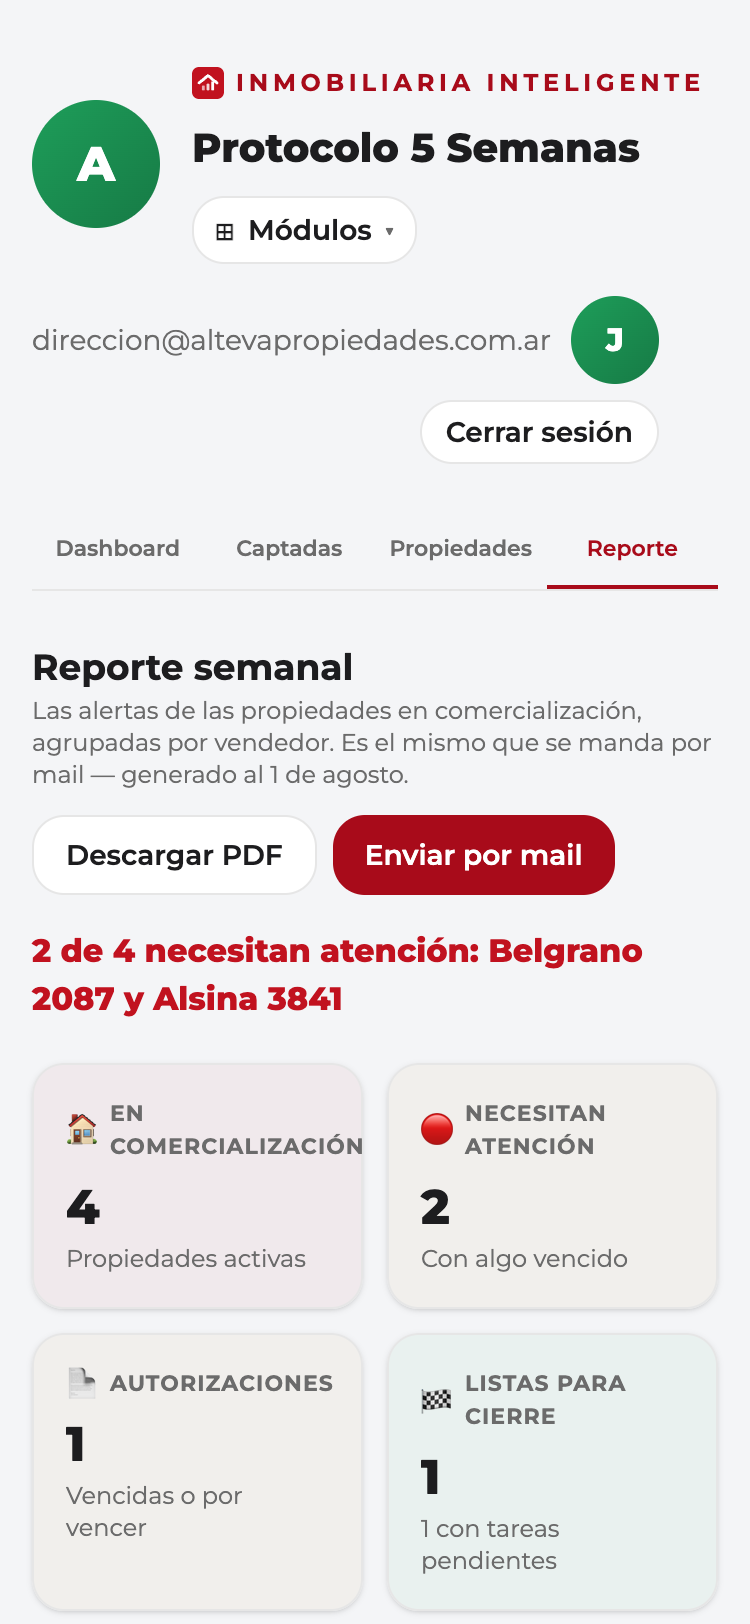
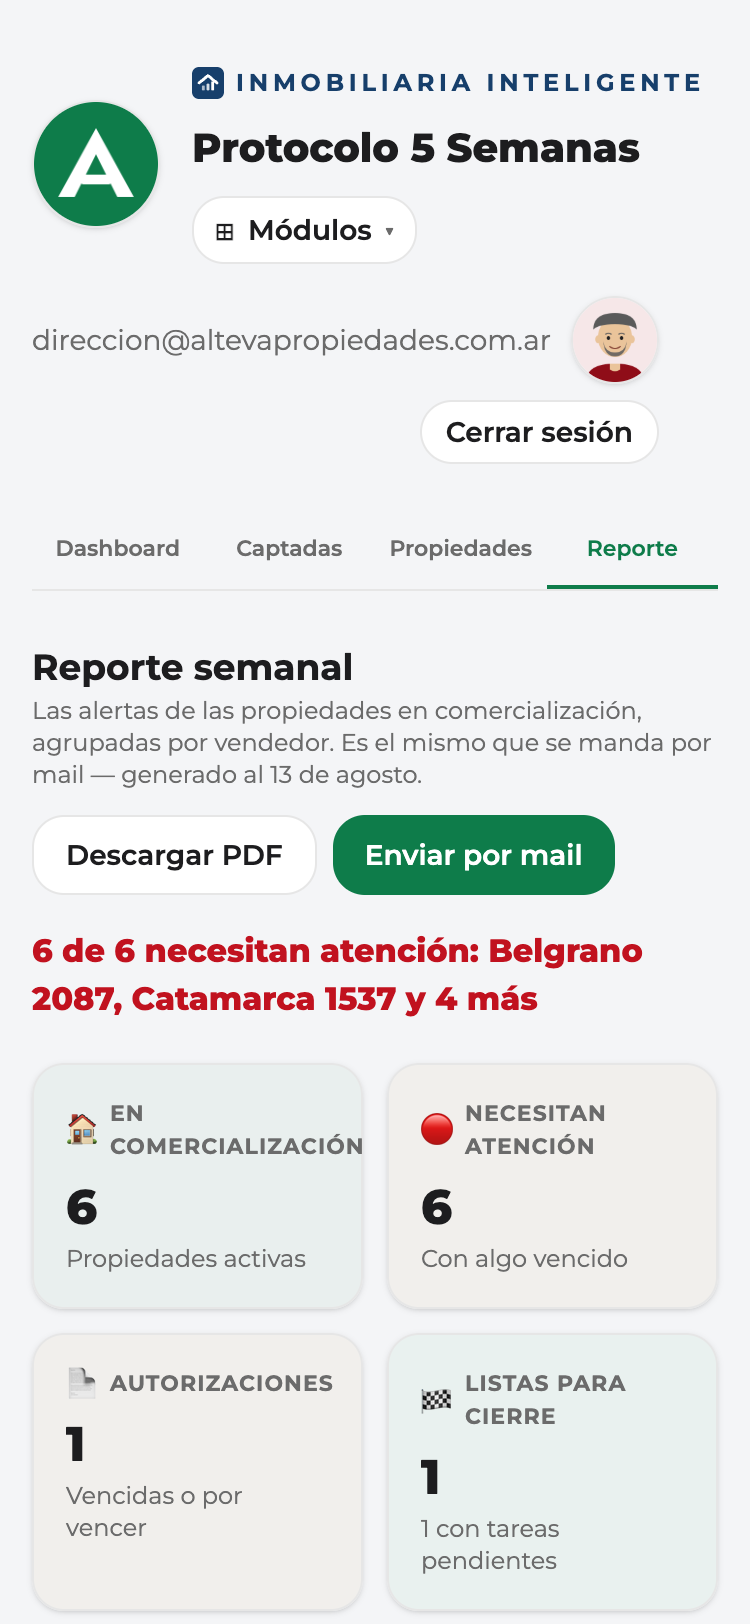
chore(comercial): capturas con la marca azul, y el acuerdo de confidencialidad
Las diez capturas del producto estaban sacadas el 1 de agosto, cuando la
plataforma todavía tomaba prestado el rojo de Vacker. Rehechas con el
script, ya con el azul propio.

El acento de los PDF que firmamos nosotros —el resumen técnico, los
costos, la guía de Meta y este acuerdo— pasa del rojo de Vacker al azul de
la plataforma, por la misma razón: son documentos que van a manos de un
prospecto y llevar el color de un cliente es presentarse con la marca de
otro.

El acuerdo de confidencialidad es recíproco y está redactado para el caso
concreto: nosotros vemos volúmenes, comisiones y datos de propietarios;
ellos ven cómo funciona el sistema y la lista de precios. Incluye la
cláusula de que los datos reales de un cliente no entran en material
comercial —que es lo que ya venimos haciendo con la base de demostración—
y la de Ley 25.326 por los datos personales que hay del otro lado.

Dice en la primera línea, y no en una nota al pie, que lo redactamos
nosotros y que antes de firmarlo con una empresa real lo tiene que leer un
abogado.

    pnpm --filter @vacker/web pdf:nda

diff --git a/docs/Acuerdo_Confidencialidad.md b/docs/Acuerdo_Confidencialidad.md
@@ -1,0 +1,239 @@
+# Acuerdo de Confidencialidad
+
+## Recíproco
+
+> **Antes de usarlo, que lo lea un abogado.** Este texto lo redactamos nosotros,
+> no un profesional del derecho. Cubre lo que una conversación comercial de este
+> tipo necesita cubrir y está escrito para leerse, pero no reemplaza la revisión
+> de un abogado — y menos antes de firmarlo con una empresa real. Los campos
+> entre corchetes se completan antes de imprimir.
+
+---
+
+En la ciudad de [CIUDAD], a los [DÍA] días del mes de [MES] de [AÑO], entre:
+
+**[RAZÓN SOCIAL DE LA INMOBILIARIA]**, CUIT [CUIT], con domicilio en
+[DOMICILIO], representada en este acto por [NOMBRE Y APELLIDO], en su carácter
+de [CARGO], en adelante **«la Inmobiliaria»**;
+
+y
+
+**[RAZÓN SOCIAL O NOMBRE DEL PROVEEDOR]**, CUIT [CUIT], con domicilio en
+[DOMICILIO], en adelante **«Inmobiliaria Inteligente»**;
+
+y refiriéndose a ambas, indistintamente, como **«las Partes»** o cada una como
+**«la Parte»**, se conviene celebrar el presente Acuerdo de Confidencialidad,
+sujeto a las cláusulas siguientes.
+
+---
+
+## 1 · Por qué se firma
+
+Las Partes van a mantener conversaciones para evaluar una eventual relación
+comercial: la provisión, por parte de Inmobiliaria Inteligente, de una
+plataforma de gestión para la Inmobiliaria (en adelante, **«el Propósito»**).
+
+Para eso, cada Parte va a conocer información de la otra que no es pública.
+Este acuerdo define qué se puede hacer con esa información. **No obliga a
+ninguna de las Partes a contratar con la otra.**
+
+## 2 · Qué se considera confidencial
+
+Se entiende por **Información Confidencial** toda información que una Parte (la
+**«Parte Reveladora»**) le comunique a la otra (la **«Parte Receptora»**) con
+motivo del Propósito, cualquiera sea su soporte —oral, escrita, digital, una
+pantalla compartida, un archivo, una demostración del sistema— y esté o no
+rotulada como confidencial.
+
+Comprende, sin que la enumeración sea taxativa:
+
+**De la Inmobiliaria:** volúmenes de operaciones, comisiones, márgenes,
+objetivos, nóminas y remuneraciones, cartera de propiedades, listados de
+clientes y propietarios, precios de captación, estrategia comercial, y todo dato
+personal de sus clientes, propietarios o empleados.
+
+**De Inmobiliaria Inteligente:** el funcionamiento del sistema, su arquitectura,
+su modelo de datos, su código, las credenciales de acceso, la documentación
+técnica, las pantallas y demostraciones, la lista de precios, las condiciones
+comerciales y la identidad de sus clientes.
+
+**De ambas:** el hecho mismo de que estas conversaciones existen y su contenido.
+
+## 3 · Qué NO se considera confidencial
+
+Las obligaciones de este acuerdo no alcanzan a la información que la Parte
+Receptora pueda demostrar, con constancia escrita, que:
+
+1. Era de dominio público al momento de recibirla, o pasó a serlo después sin
+   incumplimiento de este acuerdo;
+2. Ya estaba legítimamente en su poder antes de recibirla de la Parte
+   Reveladora, sin obligación de reserva;
+3. La recibió de un tercero facultado para comunicarla, sin obligación de
+   reserva;
+4. Desarrolló de manera independiente, sin usar la Información Confidencial.
+
+## 4 · Qué se compromete a hacer quien recibe
+
+La Parte Receptora se obliga a:
+
+1. **Usar la Información Confidencial únicamente para el Propósito.** Ningún
+   otro uso, ni propio ni de terceros.
+2. **No divulgarla** a ninguna persona ajena, salvo lo previsto en la cláusula 5.
+3. **Protegerla con al menos el mismo cuidado** que aplica a su propia
+   información confidencial, y nunca con menos que una diligencia razonable.
+4. **No reproducirla ni copiarla** más allá de lo que el Propósito requiera.
+5. **Avisar sin demora** a la Parte Reveladora si toma conocimiento de una
+   divulgación o un uso no autorizado, aunque no le sea imputable.
+
+## 5 · Quiénes pueden acceder
+
+La Parte Receptora puede dar acceso a la Información Confidencial únicamente a
+aquellos de sus socios, directores, empleados, asesores profesionales o
+subcontratistas que **necesiten conocerla** para el Propósito, y siempre que:
+
+- les haga saber el carácter confidencial de la información; y
+- estén obligados a un deber de reserva de alcance no menor al de este acuerdo,
+  sea por contrato o por su ejercicio profesional.
+
+**La Parte Receptora responde por el incumplimiento de esas personas como si
+fuera propio.**
+
+## 6 · Si lo pide una autoridad
+
+Si la Parte Receptora queda obligada a divulgar Información Confidencial por una
+norma, una orden judicial o un requerimiento de autoridad competente, podrá
+hacerlo, pero deberá:
+
+1. notificarlo a la Parte Reveladora de inmediato y por escrito, siempre que la
+   norma no se lo prohíba, para permitirle oponer las defensas que estime;
+2. divulgar únicamente la porción exigida; y
+3. procurar razonablemente que se le dé tratamiento confidencial.
+
+## 7 · Datos personales
+
+La información de la Inmobiliaria incluye datos personales de clientes,
+propietarios y empleados. Las Partes se obligan a tratarlos conforme a la **Ley
+25.326 de Protección de los Datos Personales** y a la normativa que la
+reemplace o complemente.
+
+Inmobiliaria Inteligente **no incorporará datos reales de la Inmobiliaria a
+material comercial, demostraciones a terceros, capturas de pantalla ni ejemplos
+públicos.** Para eso utiliza exclusivamente una base de demostración con datos
+simulados.
+
+## 8 · Sobre las demostraciones del sistema
+
+El acceso al sistema que se otorgue durante la evaluación es **al solo efecto de
+evaluarlo**. La Inmobiliaria se obliga a no intentar acceder a datos de otras
+inmobiliarias, no compartir credenciales, y no realizar ingeniería inversa sobre
+la plataforma ni sobre ninguno de sus componentes.
+
+## 9 · Nada se transfiere
+
+Este acuerdo **no otorga ni transfiere derecho alguno** sobre la Información
+Confidencial, ni licencia, ni derecho de propiedad intelectual o industrial,
+presente o futuro. Cada Parte conserva la titularidad de lo suyo.
+
+La información se entrega **en el estado en que está**, sin garantía sobre su
+exactitud o integridad, sin perjuicio de la buena fe con la que las Partes se
+obligan a informarse.
+
+## 10 · Devolución o destrucción
+
+A pedido escrito de la Parte Reveladora, y en todo caso al terminar las
+conversaciones sin acuerdo, la Parte Receptora deberá **devolver o destruir**
+toda la Información Confidencial en su poder, incluidas las copias, y
+confirmarlo por escrito dentro de los **diez (10) días corridos**.
+
+Se exceptúan las copias que deban conservarse por una obligación legal o por
+política de resguardo automático de sistemas, que permanecerán alcanzadas por
+este acuerdo mientras existan.
+
+## 11 · Plazo
+
+Este acuerdo entra en vigencia en la fecha indicada al inicio y rige durante las
+conversaciones vinculadas al Propósito.
+
+**Las obligaciones de confidencialidad sobreviven a su terminación por
+tres (3) años**, contados desde la última comunicación de Información
+Confidencial entre las Partes.
+
+Tratándose de datos personales y de secretos comerciales, la obligación se
+mantiene **mientras conserven ese carácter**, aun vencido el plazo anterior.
+
+## 12 · Incumplimiento
+
+Las Partes reconocen que el incumplimiento de este acuerdo puede causar un daño
+de difícil reparación económica. En consecuencia, la Parte afectada podrá
+requerir las medidas cautelares que correspondan, sin perjuicio del derecho a
+reclamar la indemnización de los daños y perjuicios sufridos.
+
+## 13 · Generales
+
+**Exclusividad del texto.** Este acuerdo contiene el entendimiento íntegro de
+las Partes sobre la confidencialidad y deja sin efecto todo acuerdo previo sobre
+la materia. Cualquier modificación deberá constar por escrito y firmada por
+ambas.
+
+**Cesión.** Ninguna Parte puede ceder este acuerdo sin la conformidad escrita de
+la otra.
+
+**Tolerancia.** El no ejercicio de un derecho no implica renuncia.
+
+**Nulidad parcial.** Si una cláusula fuera declarada inválida, las restantes
+mantienen plena vigencia.
+
+**Sin exclusividad comercial.** Este acuerdo no impide a ninguna Parte trabajar
+con terceros, incluidos competidores de la otra, siempre que no use para ello la
+Información Confidencial recibida.
+
+## 14 · Notificaciones
+
+Toda comunicación se considera válida si se dirige a los domicilios indicados al
+inicio, o a las siguientes direcciones de correo electrónico:
+
+| Parte | Correo |
+|---|---|
+| La Inmobiliaria | [CORREO] |
+| Inmobiliaria Inteligente | [CORREO] |
+
+Los cambios de domicilio o de correo deberán notificarse por escrito.
+
+## 15 · Ley aplicable y jurisdicción
+
+Este acuerdo se rige por las **leyes de la República Argentina**.
+
+Ante cualquier controversia, las Partes se someten a la jurisdicción de los
+**Tribunales Ordinarios de [CIUDAD], Provincia de [PROVINCIA]**, renunciando a
+todo otro fuero o jurisdicción que pudiera corresponderles.
+
+---
+
+En prueba de conformidad, se firman **dos (2) ejemplares** de un mismo tenor y a
+un solo efecto, en el lugar y la fecha indicados al inicio.
+
+| Por la Inmobiliaria | Por Inmobiliaria Inteligente |
+|---|---|
+| ———————————————————— | ———————————————————— |
+| Firma | Firma |
+| ———————————————————— | ———————————————————— |
+| Aclaración | Aclaración |
+| ———————————————————— | ———————————————————— |
+| Cargo | Cargo |
+| ———————————————————— | ———————————————————— |
+| DNI | DNI |
+
+---
+
+## Qué completar antes de imprimir
+
+Para que no quede ningún corchete a la vista:
+
+- [ ] Ciudad y fecha de la firma
+- [ ] Razón social, CUIT y domicilio de la inmobiliaria
+- [ ] Nombre, cargo y DNI de quien firma por la inmobiliaria
+- [ ] Razón social, CUIT y domicilio nuestro
+- [ ] Nombre, cargo y DNI de quien firma por nosotros
+- [ ] Los dos correos de la cláusula 14
+- [ ] Ciudad y provincia de la cláusula 15
+- [ ] **Que lo haya leído un abogado**
